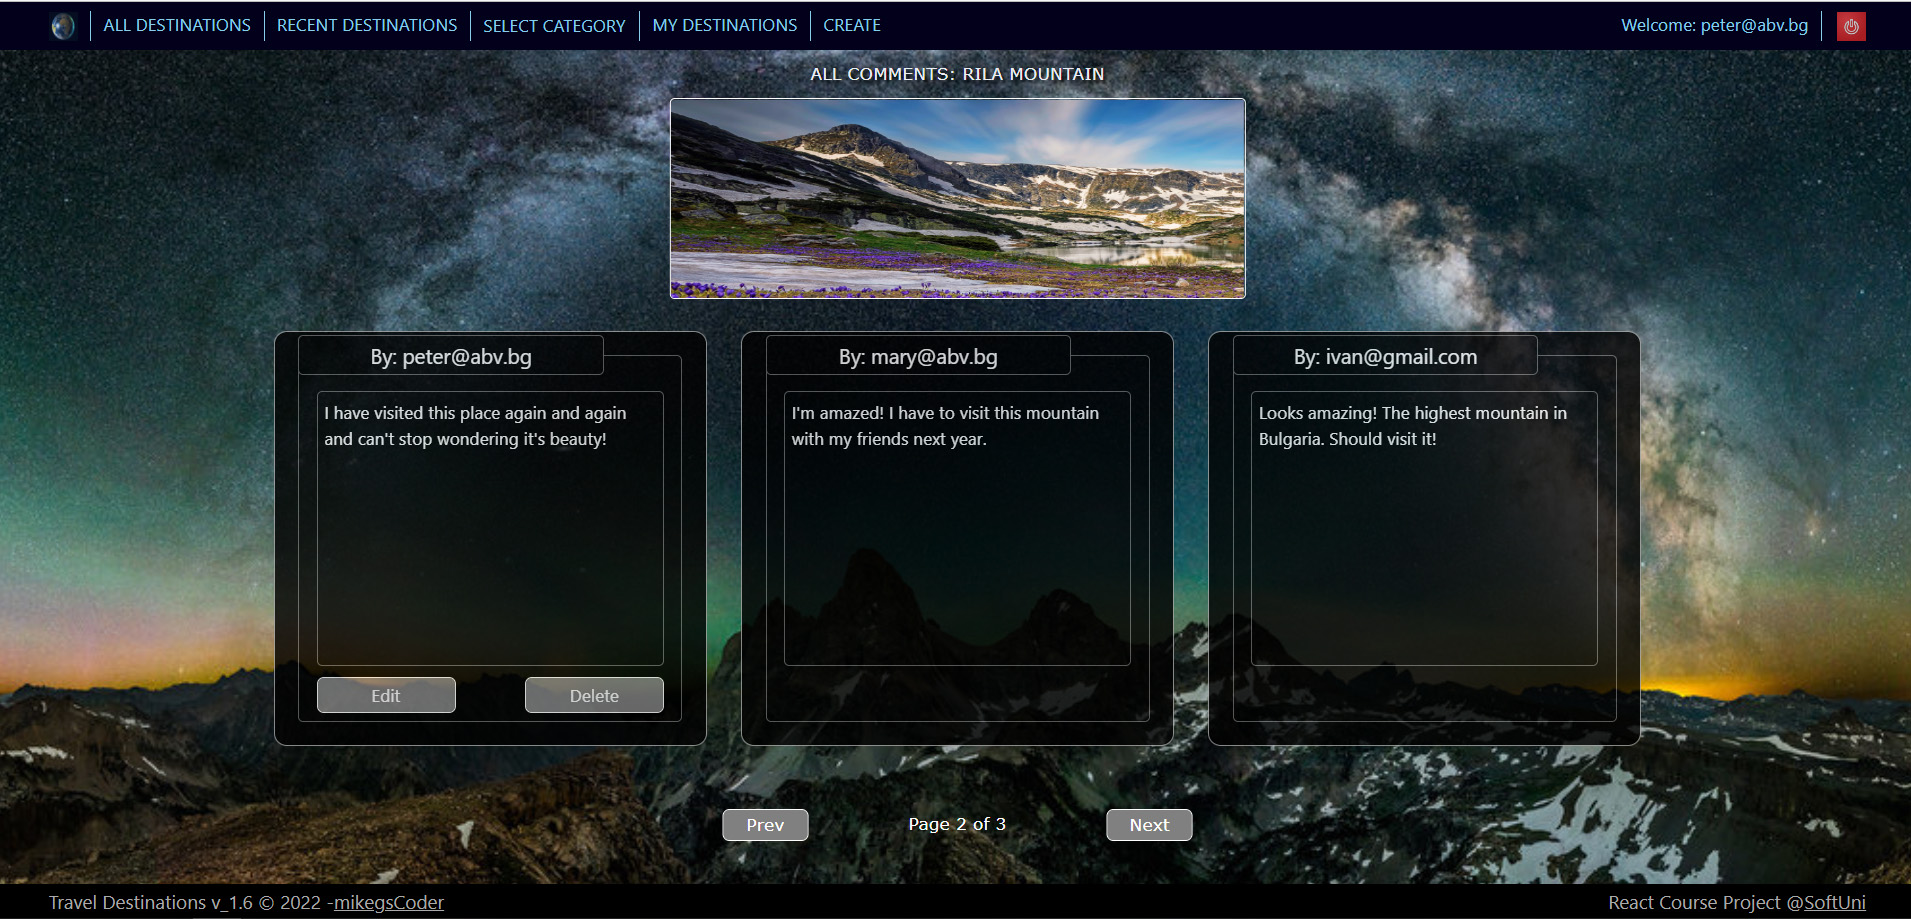
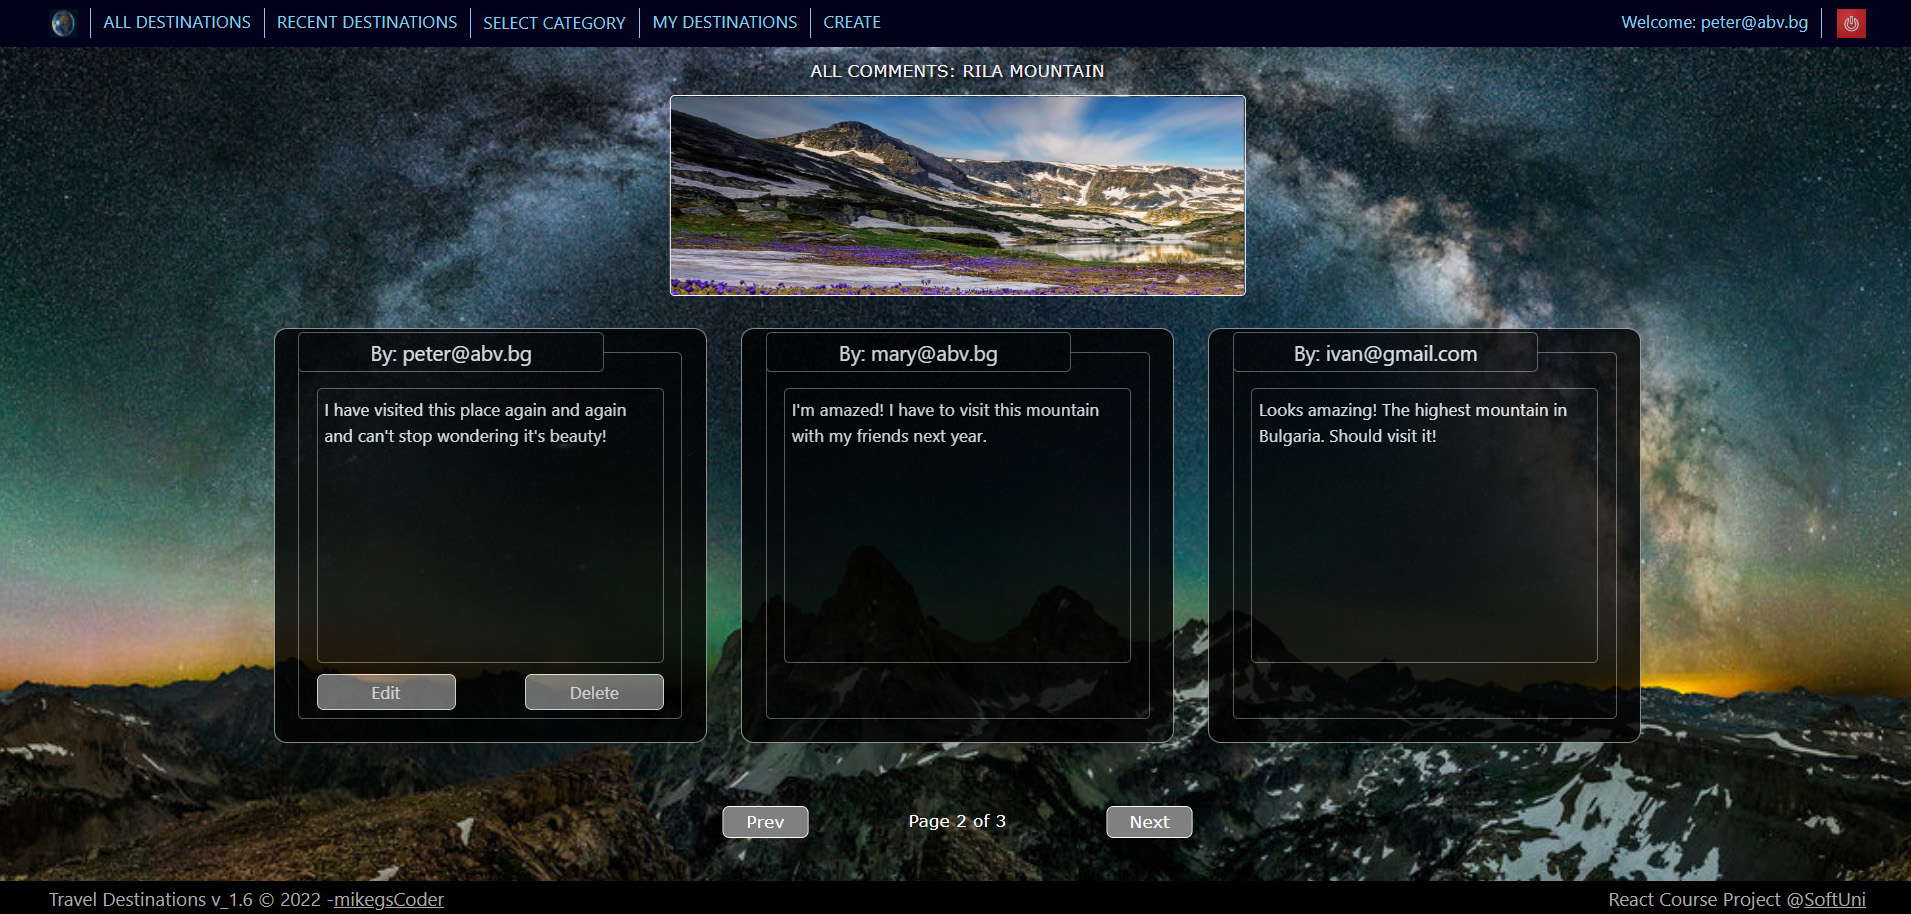
Some corrections on images styles

diff --git a/css/style.css b/css/style.css
@@ -5136,6 +5136,9 @@ input[type=button].btn-block {
     flex-shrink: 0;
     width: 100%;
     object-fit: fill;
+    height: 340px;
+    border: none;
+    border-radius: 5px;
 }
 
 .card-img,
